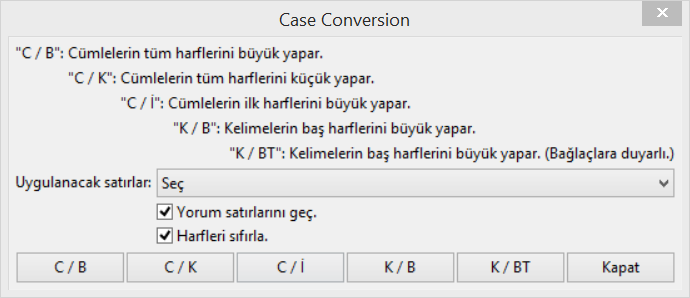
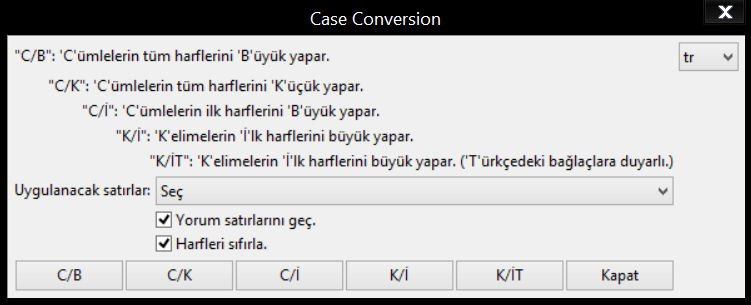
0.8.4

diff --git a/README.md b/README.md
@@ -29,7 +29,7 @@
   - [**(16) Text Align**](#text-align)
   - [**(17) Timer**](#timer)
   - [**(18) Trans State A1**](#trans-state-a1)
-  - [**(19) Typewritter Maker**](#typewritter-maker)
+  - [**(19) Typewritter**](#typewritter)
 - [**(D) ASS**](#ass)
  * [**(1) Autotags**](#autotags)
  * [**(2) Color Fade**](#color-fade)
@@ -198,11 +198,11 @@ Herhangi bir arayüzde yaptığınız ayar diğer bir arayüzde de bulunuyorsa s
 ### [Case Conversion](automation/autoload/mag.case_conversion.lua)
 Harflerle ilgili işlemler yapar.
 
-* **C / B**: Cümlelerin tüm harflerini büyük yapar.
-* **C / K**: Cümlelerin tüm harflerini küçük yapar.
-* **C / İ**": Cümlelerin ilk harflerini büyük yapar.
-* **K / B**: Kelimelerin baş harflerini büyük yapar.
-* **K / BT**: Kelimelerin baş harflerini büyük yapar. (Bağlaçlara duyarlı.)
+* **C/B**: 'C'ümlelerin tüm harflerini 'B'üyük yapar.
+* **C/K**: 'C'ümlelerin tüm harflerini 'K'üçük yapar.
+* **C/İ**": 'C'ümlelerin ilk harflerini 'B'üyük yapar.
+* **K/İ**: 'K'elimelerin 'İ'lk harflerini büyük yapar.
+* **K/İT**: 'K'elimelerin 'İ'lk harflerini büyük yapar. ('T'ürkçedeki bağlaçlara duyarlı.)
 
 ---
 
@@ -448,7 +448,7 @@ Karaktere göre metni böler.
 * **Arayüz hafızası:** Her açılan dosya kapanana kadar geçen sürede tercihler hafızada tutulur. Bir dosyada yapılan tercih, aynı anda açılsa bile diğer bir dosyaya yansımaz. Uygulanan satırların tercih yapıldığı alan dışında diğer tüm tercihler hafızada tutulur.
 * **Modül:** Modülün var olup olmadığını ve varsa da istenilen sürüm olup olmadığını kontrol eder. Her şey istenildiği gibiyse lua dosyasını çalıştırır.
 
-### [Typewritter Maker](automation/autoload/mag.typewritter.lua)
+### [Typewritter](automation/autoload/mag.typewritter.lua)
 Satıra daktilo tarzı bir efekt uygular.
 
 ---
